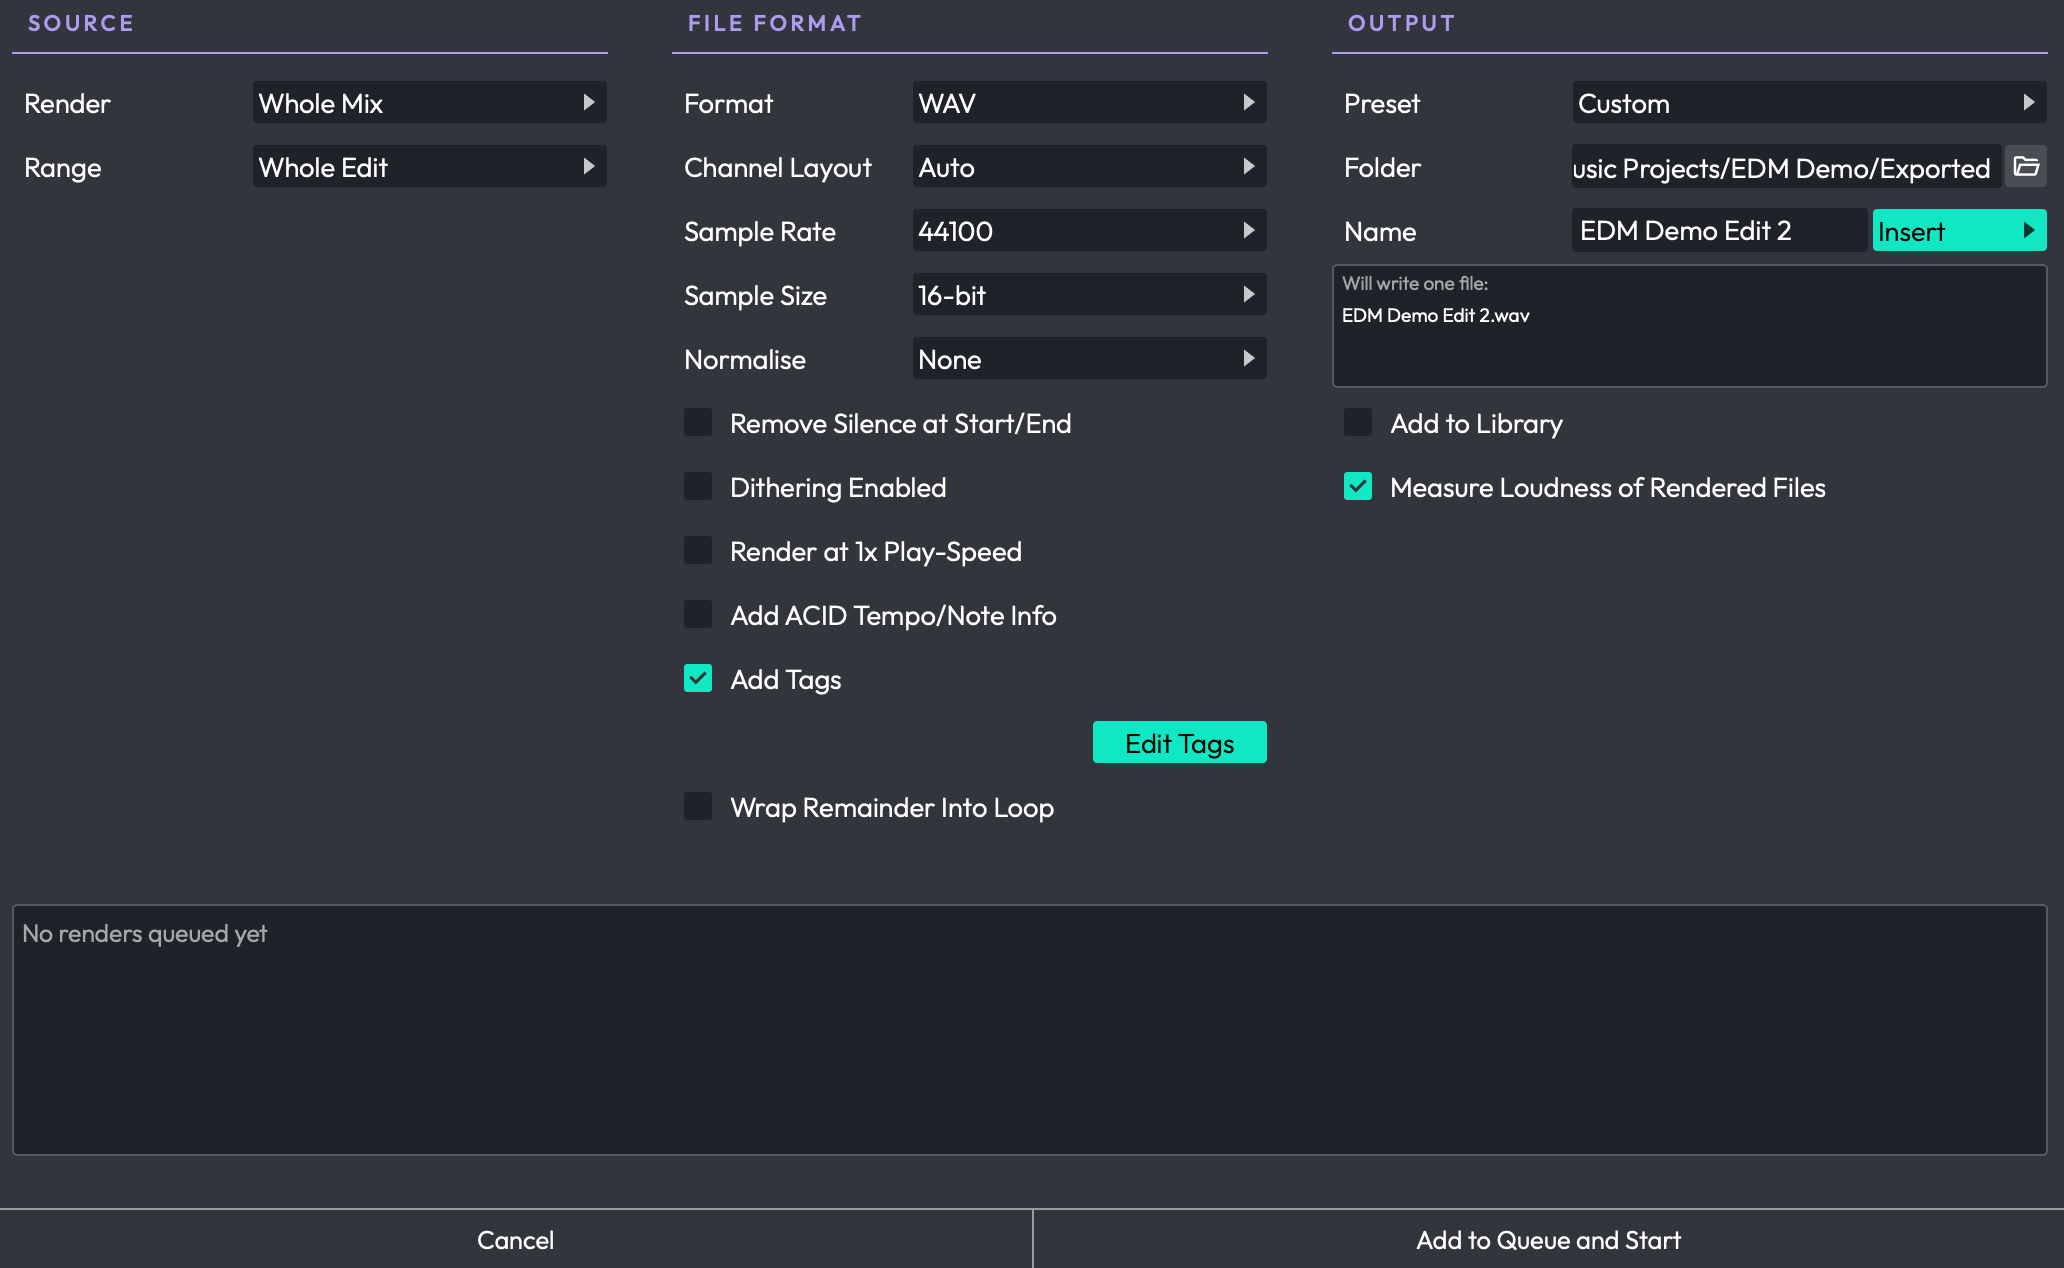
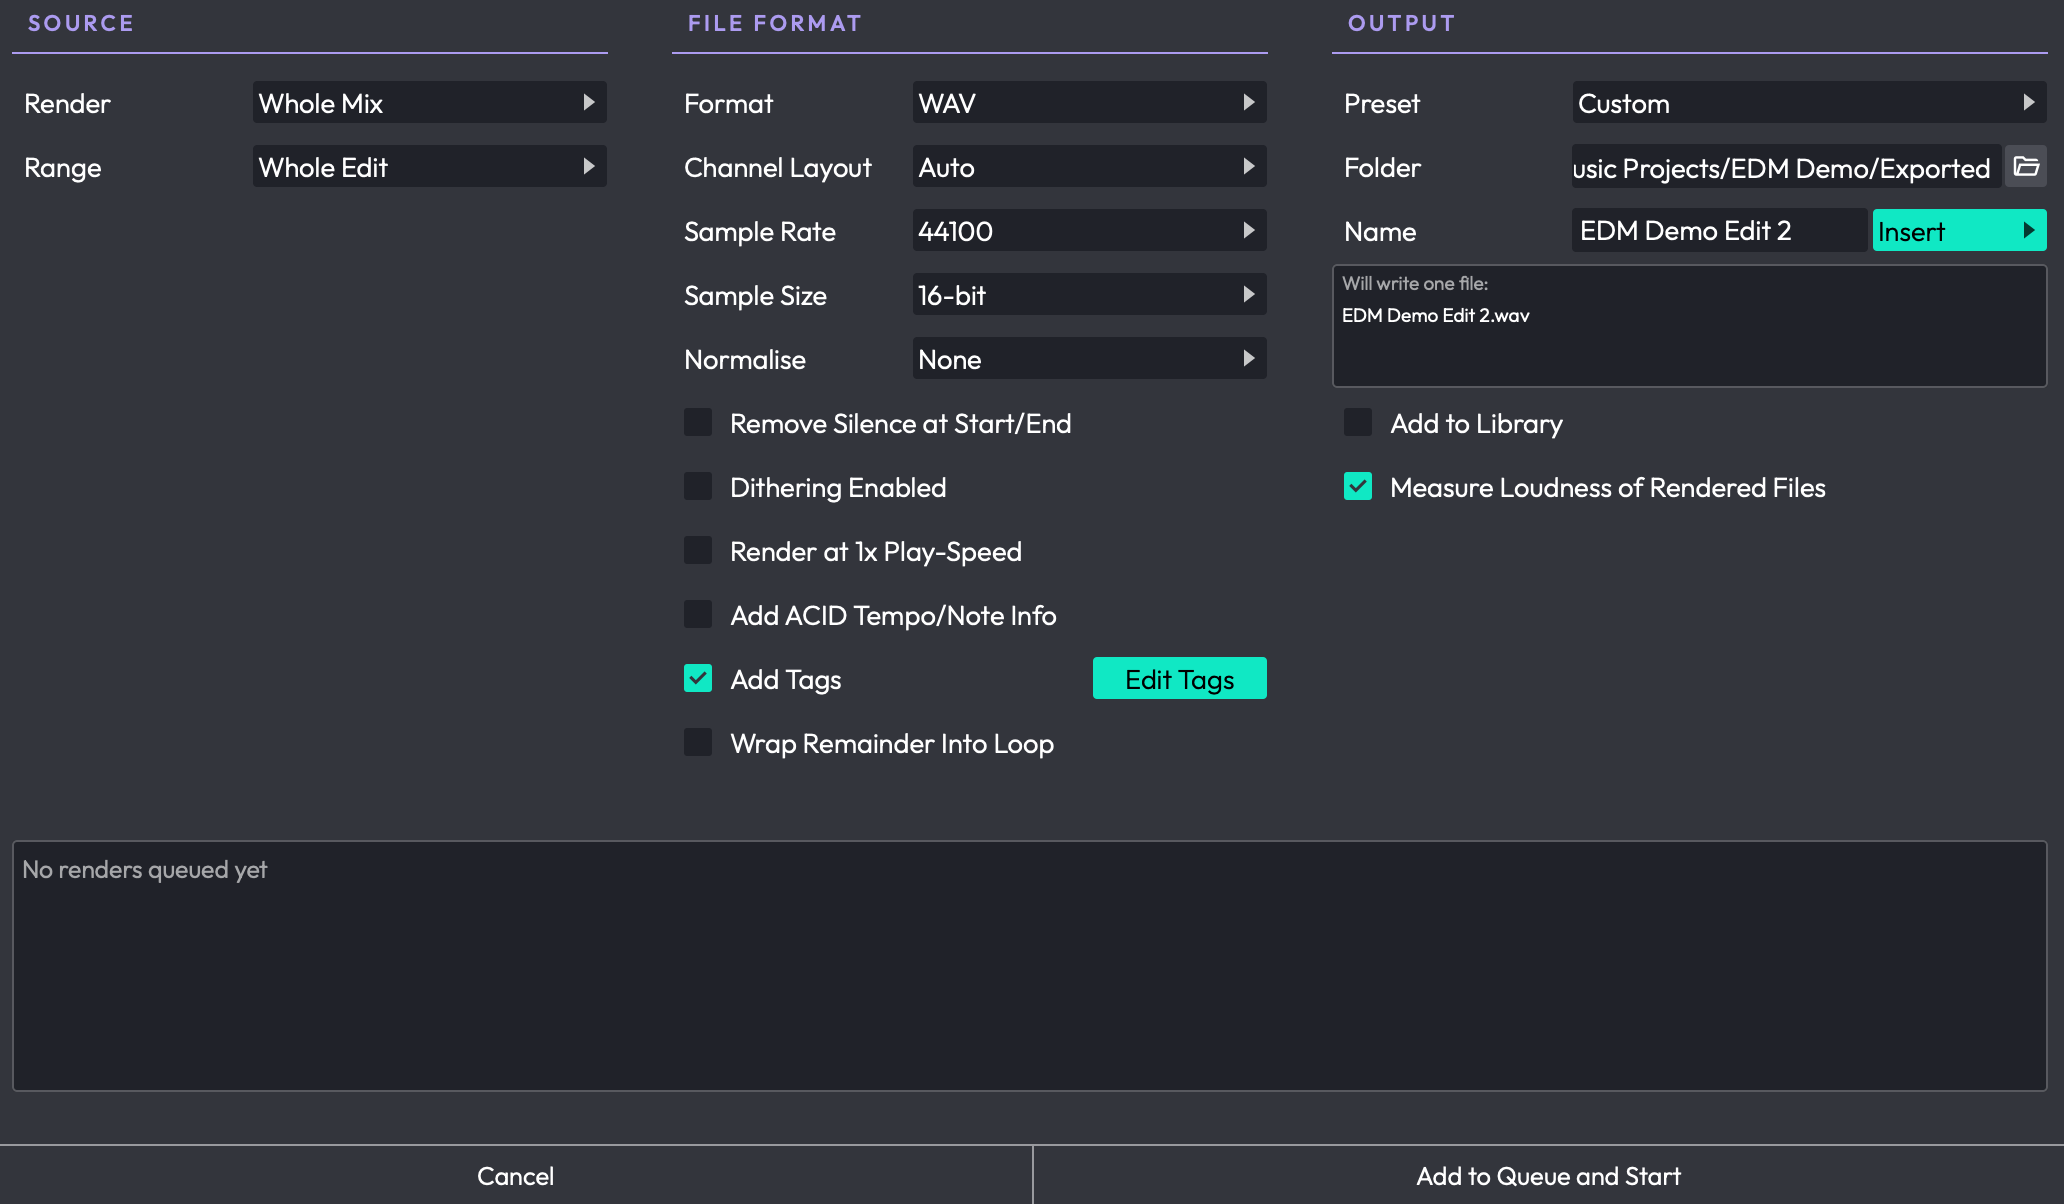
Updated render chapter to the new renderer

diff --git a/docs/rendering-and-stems.md b/docs/rendering-and-stems.md
@@ -266,15 +266,16 @@ already labelled rather than as *Untitled* by *Unknown Artist*.
 **Add Tags** — Writes this Edit's tags into the rendered files. It's ticked
 automatically when the Edit already has tags, and unticking it renders without
 them. (Default: on when the Edit has tags)
-<!-- code: RenderDialog.cpp:2987-2992; tracktion_RenderSpecification.h:55-60 (hasTagMetadata) -->
+<!-- code: RenderDialog.cpp:2996-2998; tracktion_RenderSpecification.h:55-60 (hasTagMetadata) -->
 
-**Edit Tags** — Opens the tag editor.
-<!-- code: RenderDialog.cpp:2996-2998, 3192-3207 -->
+**Edit Tags** — Opens the tag editor. It sits at the right-hand end of the *Add
+Tags* row.
+<!-- code: RenderDialog.cpp:3000-3002, 3192-3207 -->
 
-Both rows only appear for formats that can actually carry tags: **WAV** (in a
+The row only appears for formats that can actually carry tags: **WAV** (in a
 RIFF INFO chunk), **Ogg Vorbis** (Vorbis comments) and **MP3** (ID3). AIFF and
 FLAC have no tag support in their writers, and a MIDI file has nowhere to put
-them, so the rows are hidden for those.
+them, so it's hidden for those.
 <!-- code: tracktion_RenderSpecification.h:62-66 (formatSupportsTagMetadata) -->
 
 ![](images/rendering_7@2x.png)
